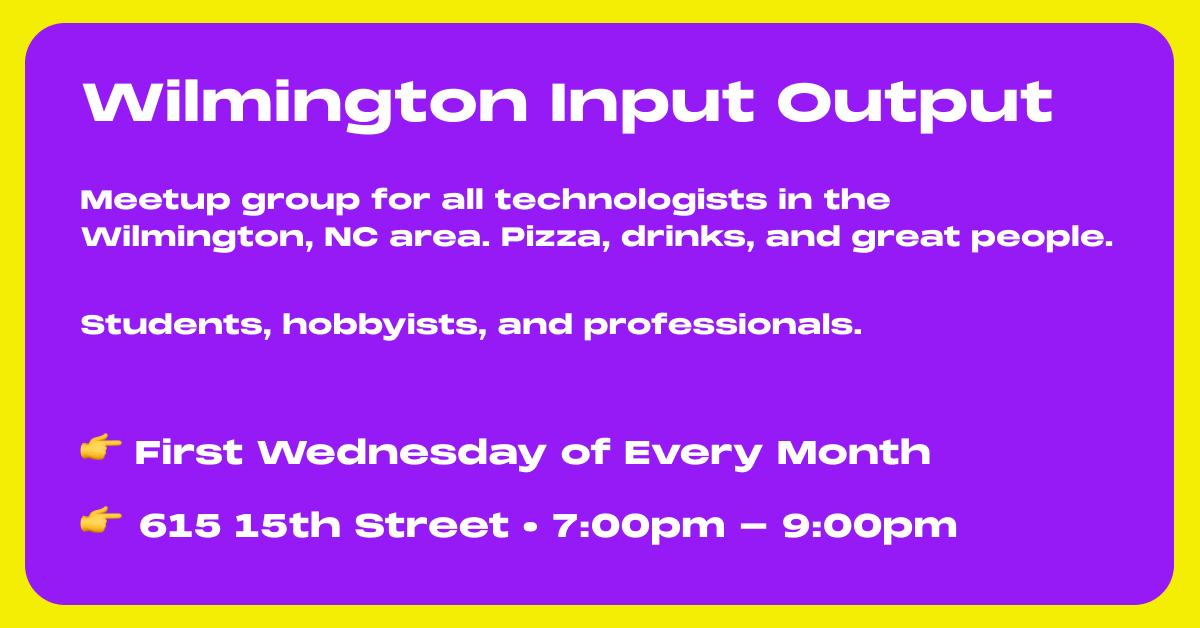
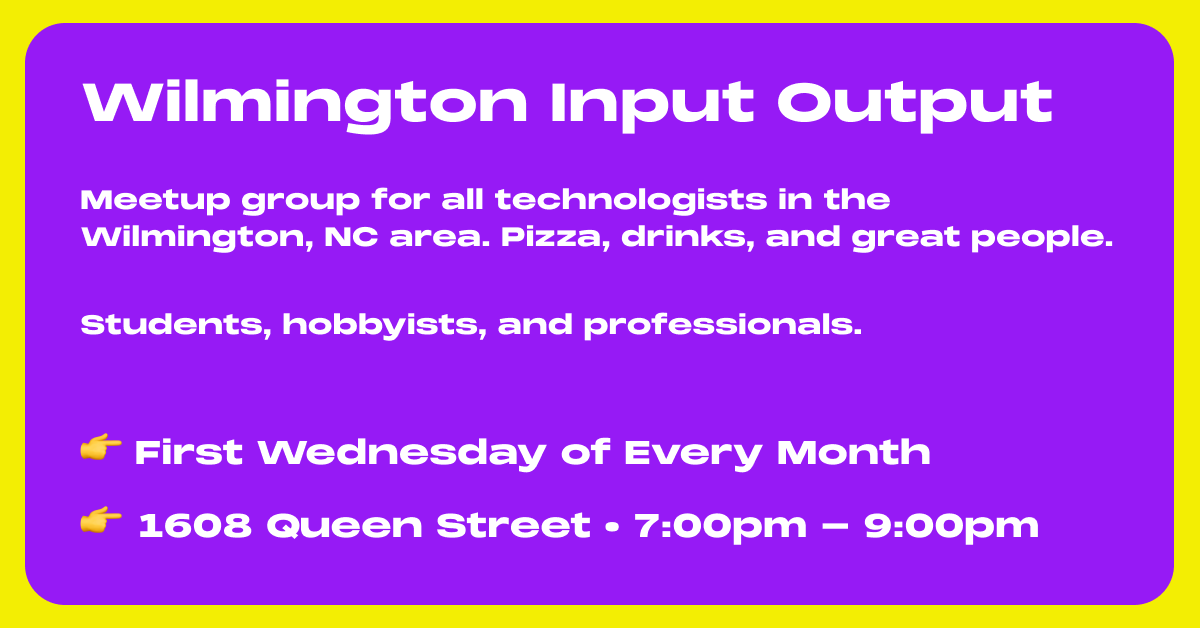
Updated for next event

Changed region(s): [[0.0925, 0.8169, 0.8633, 0.8774]]

diff --git a/src/index.html b/src/index.html
@@ -39,7 +39,7 @@
             >
         </header>
         <h1>Wilmington<br />Input Output</h1>
-        <a target="_blank" rel="noopener noreferrer" href="https://www.meetup.com/js-developers-of-wilmington/events/302642119/" class="cta" title="Attend!">
+        <a target="_blank" rel="noopener noreferrer" href="https://www.eventbrite.com/e/wilmington-input-output-career-resume-and-interview-support-tickets-1009393632527?aff=oddtdtcreator" class="cta" title="Attend!">
             <span>Attend</span>
             <span><svg xmlns="http://www.w3.org/2000/svg" width="32" height="32" fill="#000000" viewBox="0 0 256 256"><path d="M128,24A104,104,0,1,0,232,128,104.11,104.11,0,0,0,128,24Zm0,192a88,88,0,1,1,88-88A88.1,88.1,0,0,1,128,216Zm45.66-93.66a8,8,0,0,1,0,11.32l-32,32a8,8,0,0,1-11.32-11.32L148.69,136H88a8,8,0,0,1,0-16h60.69l-18.35-18.34a8,8,0,0,1,11.32-11.32Z"></path></svg></span>
         </a>
@@ -60,15 +60,15 @@
         <div class="cards">
             <div>
                 <h3>Past Events</h3>
-                <span>81+</span>
+                <span>82+</span>
             </div>
             <div>
                 <h3>Unique Attendees</h3>
-                <span>30+</span>
+                <span>32+</span>
             </div>
             <div>
                 <h3>when</h3>
-                <span>September 4th</span>
+                <span>October 2</span>
                 <sub>7:00 PM - 9:00 PM</sub>
             </div>
             <div>
@@ -76,9 +76,9 @@
                 <a
                     target="_blank"
                     rel="noopener noreferrer"
-                    href="https://maps.app.goo.gl/TKZw5qS4rfBjpn4t7"
-                >615 15th Street</a>
-                <sub>Cargo Cade</sub>
+                    href="https://maps.app.goo.gl/bRvMkUEYrqdezNrj9"
+                >1608 Queen Street</a>
+                <sub>Coworx</sub>
             </div>
         </div>
     </main>
